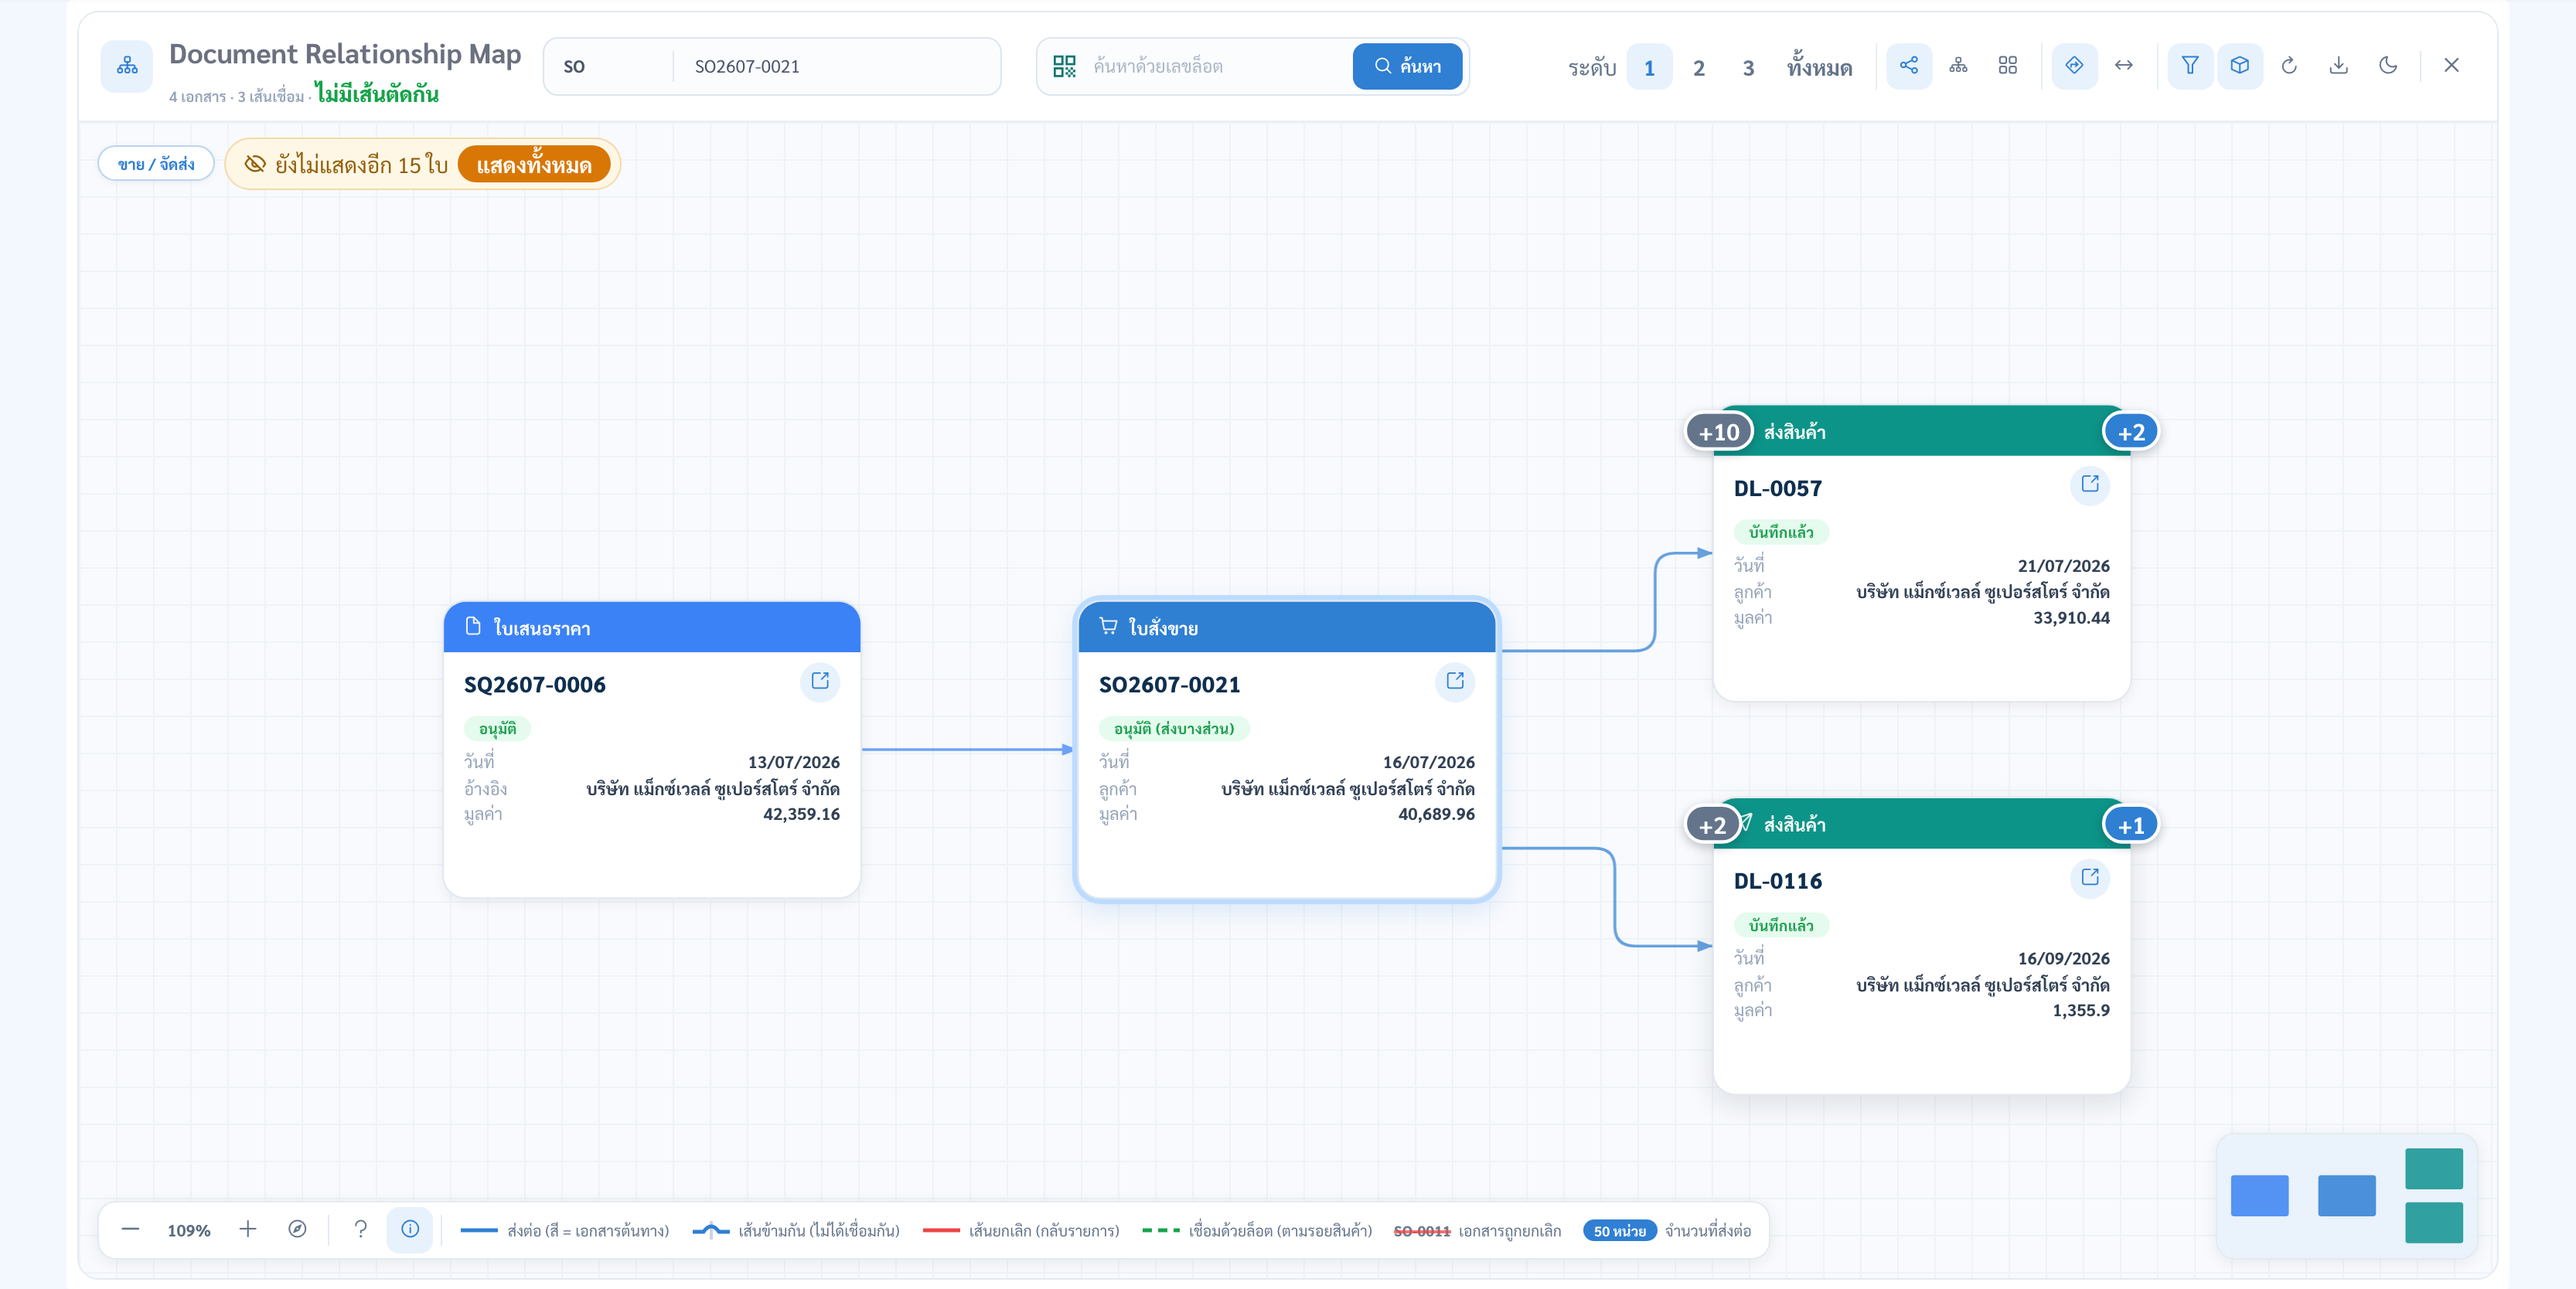
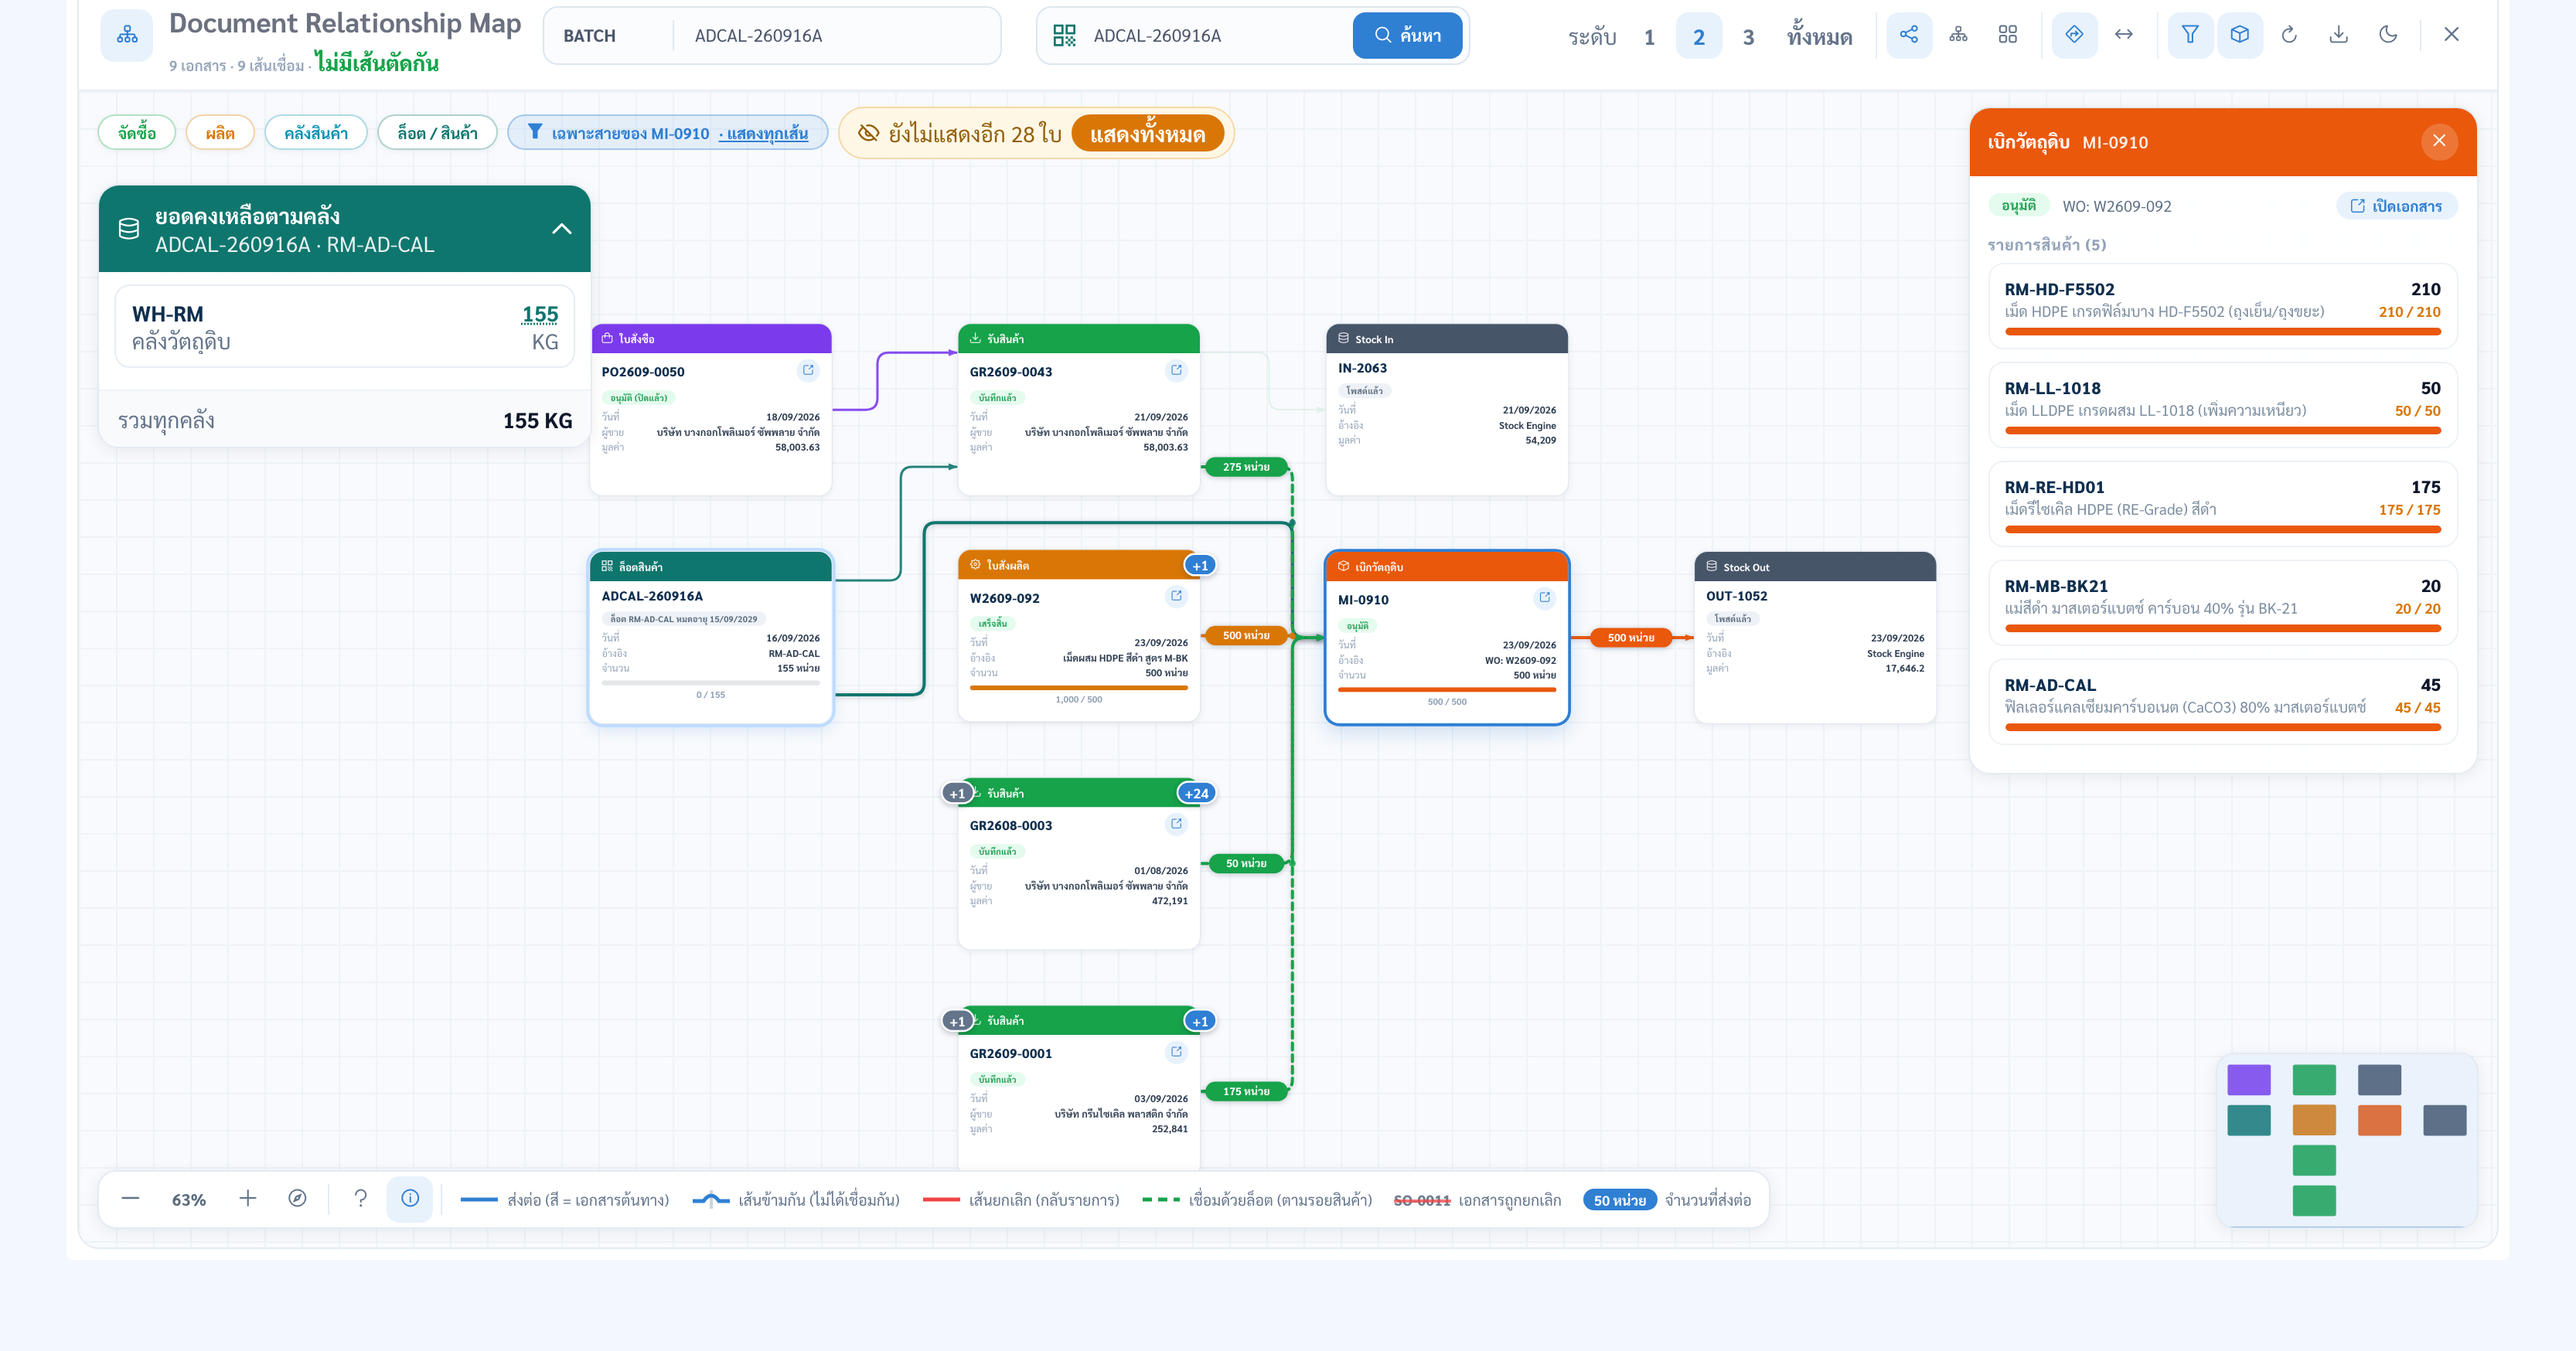
customer-deck: Relationship Map แคปใหม่ ค้นจากล็อตวัตถุดิบ ADCAL-260916A ระดับ 2 + แผงใบเบิกวัตถุดิบ

diff --git a/customer-deck/index.html b/customer-deck/index.html
@@ -797,7 +797,7 @@ iframe.scr{border:0;display:block;background:#F4F7FB}
   <div class="eyebrow">DOCUMENT FLOW · จอจริงในระบบ</div>
   <h1>Document Relationship Map</h1>
   <div class="rule"></div>
-  <div class="shot"><img width="3332" height="1668" src="img/shot-122.png" alt="Document Relationship Map" data-t="Document Relationship Map — สายเอกสารของออเดอร์เดียว ตั้งแต่ใบเสนอราคาถึงใบส่งของ"></div>
+  <div class="shot"><img width="3332" height="1748" src="img/shot-122.png" alt="Document Relationship Map" data-t="Document Relationship Map — ค้นจากเลขล็อตวัตถุดิบ เห็นตั้งแต่ใบสั่งซื้อ รับเข้า เบิกไปผลิต จนออกจากคลัง"></div>
   <div class="foot"><span class="brand">BESIDE</span></div>
 </div>
 </div>
